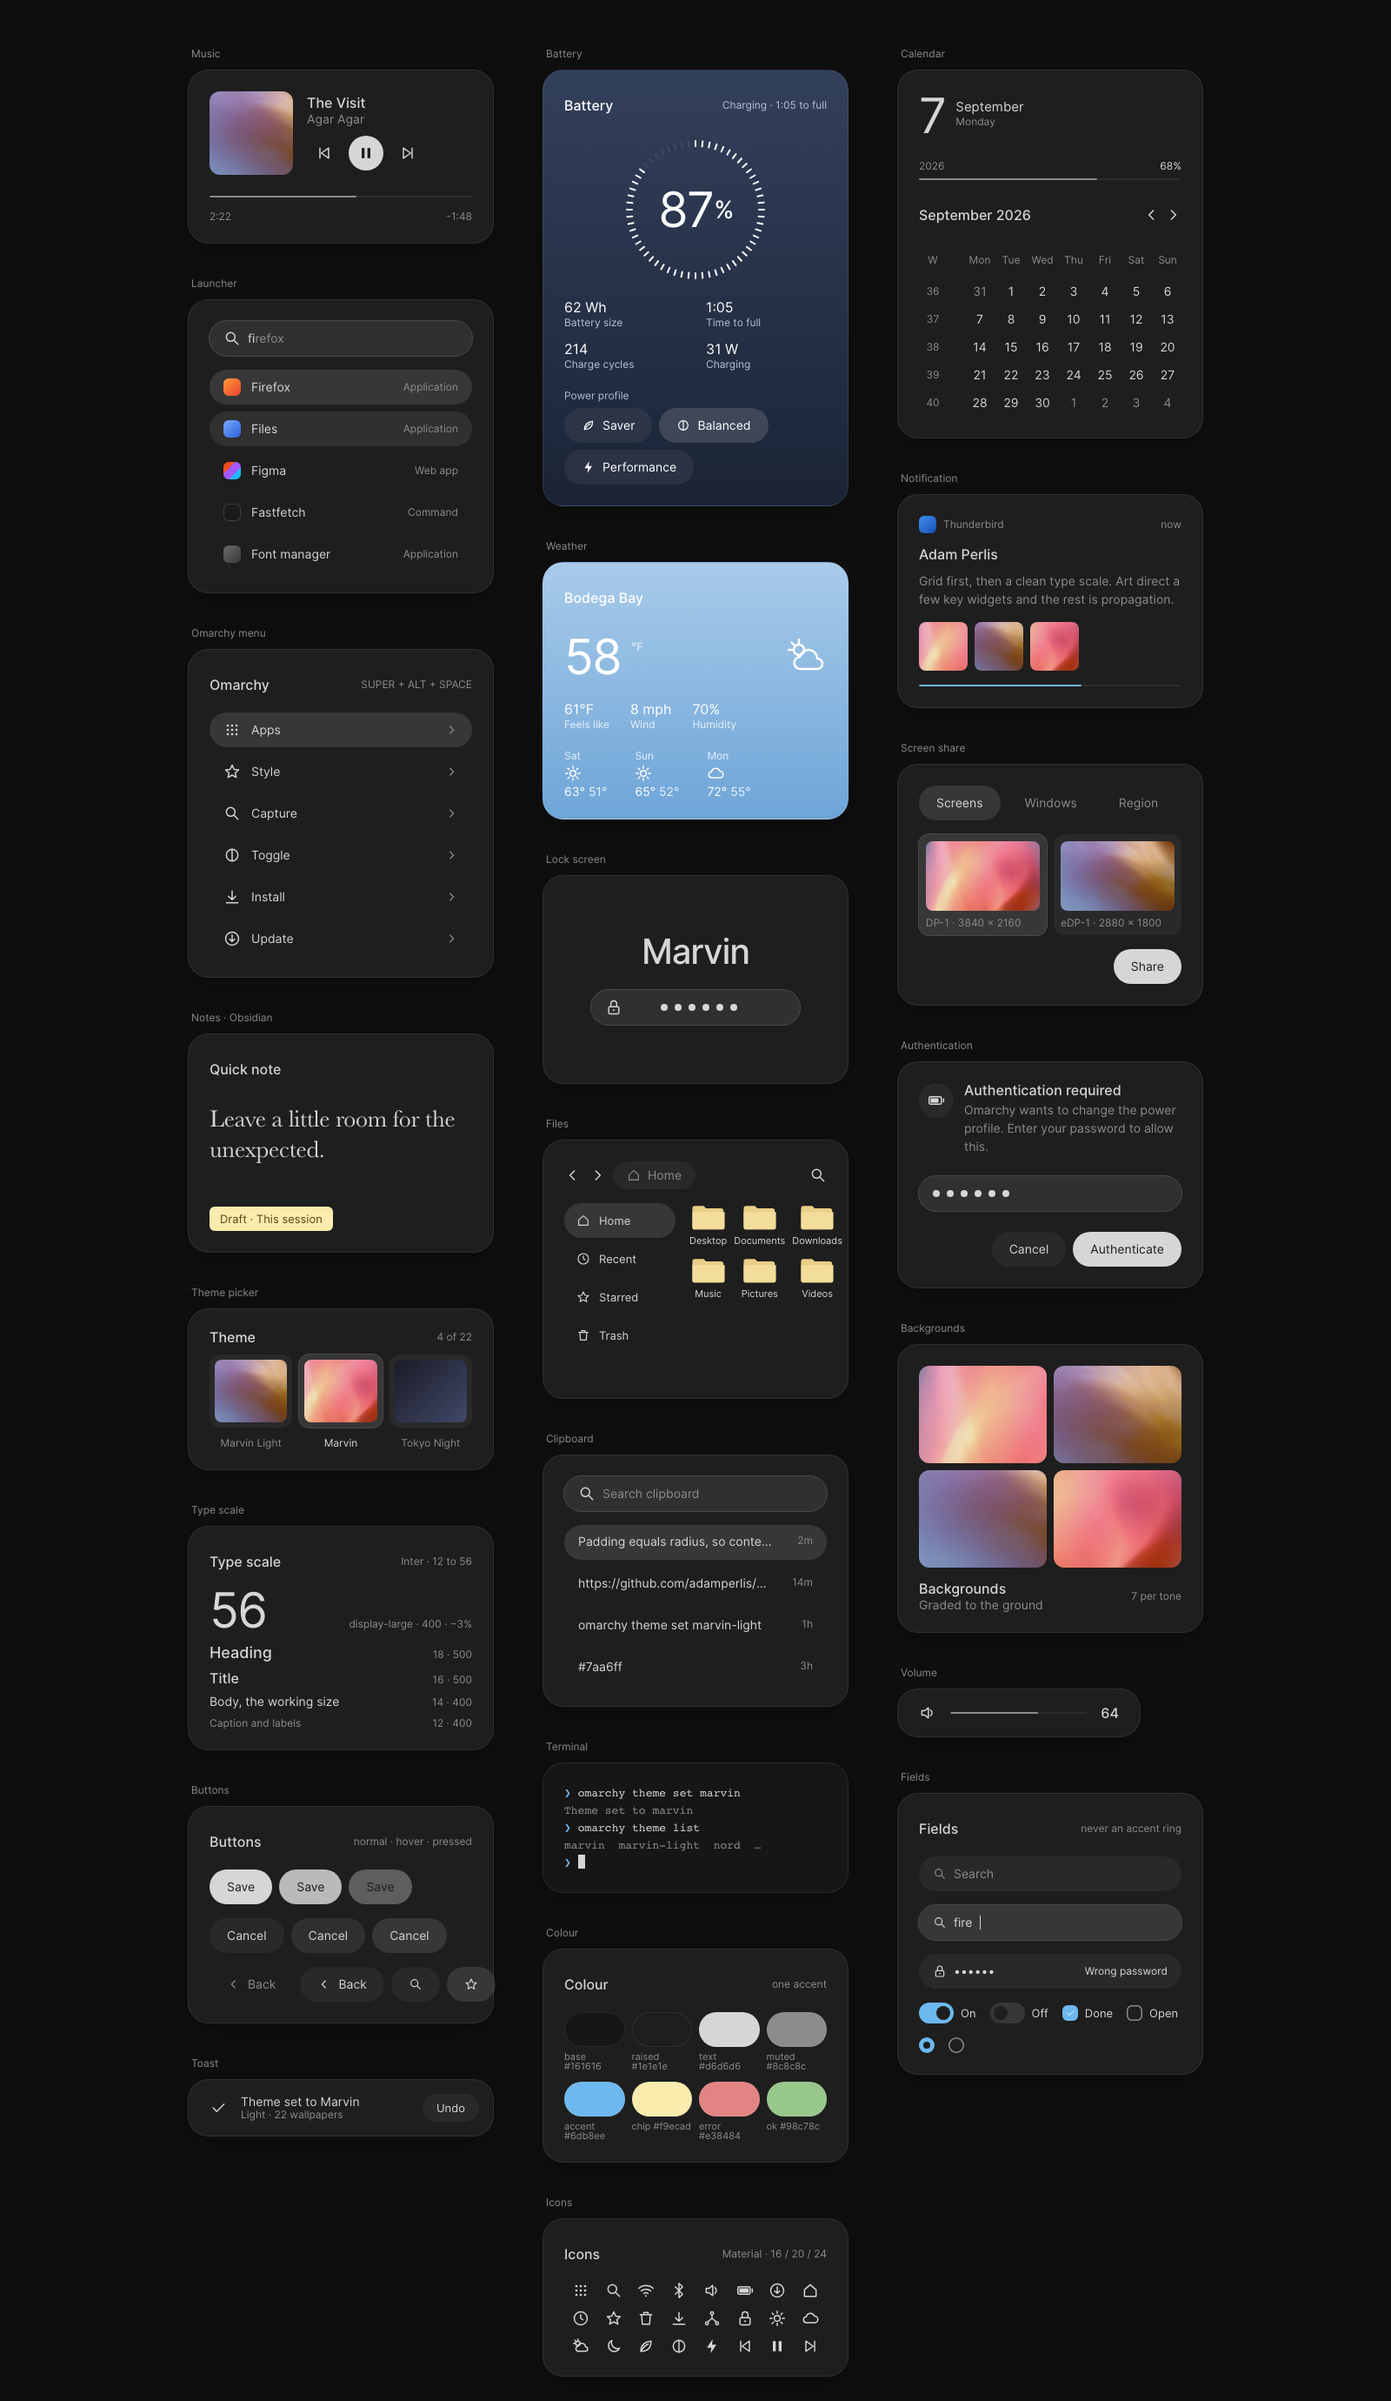
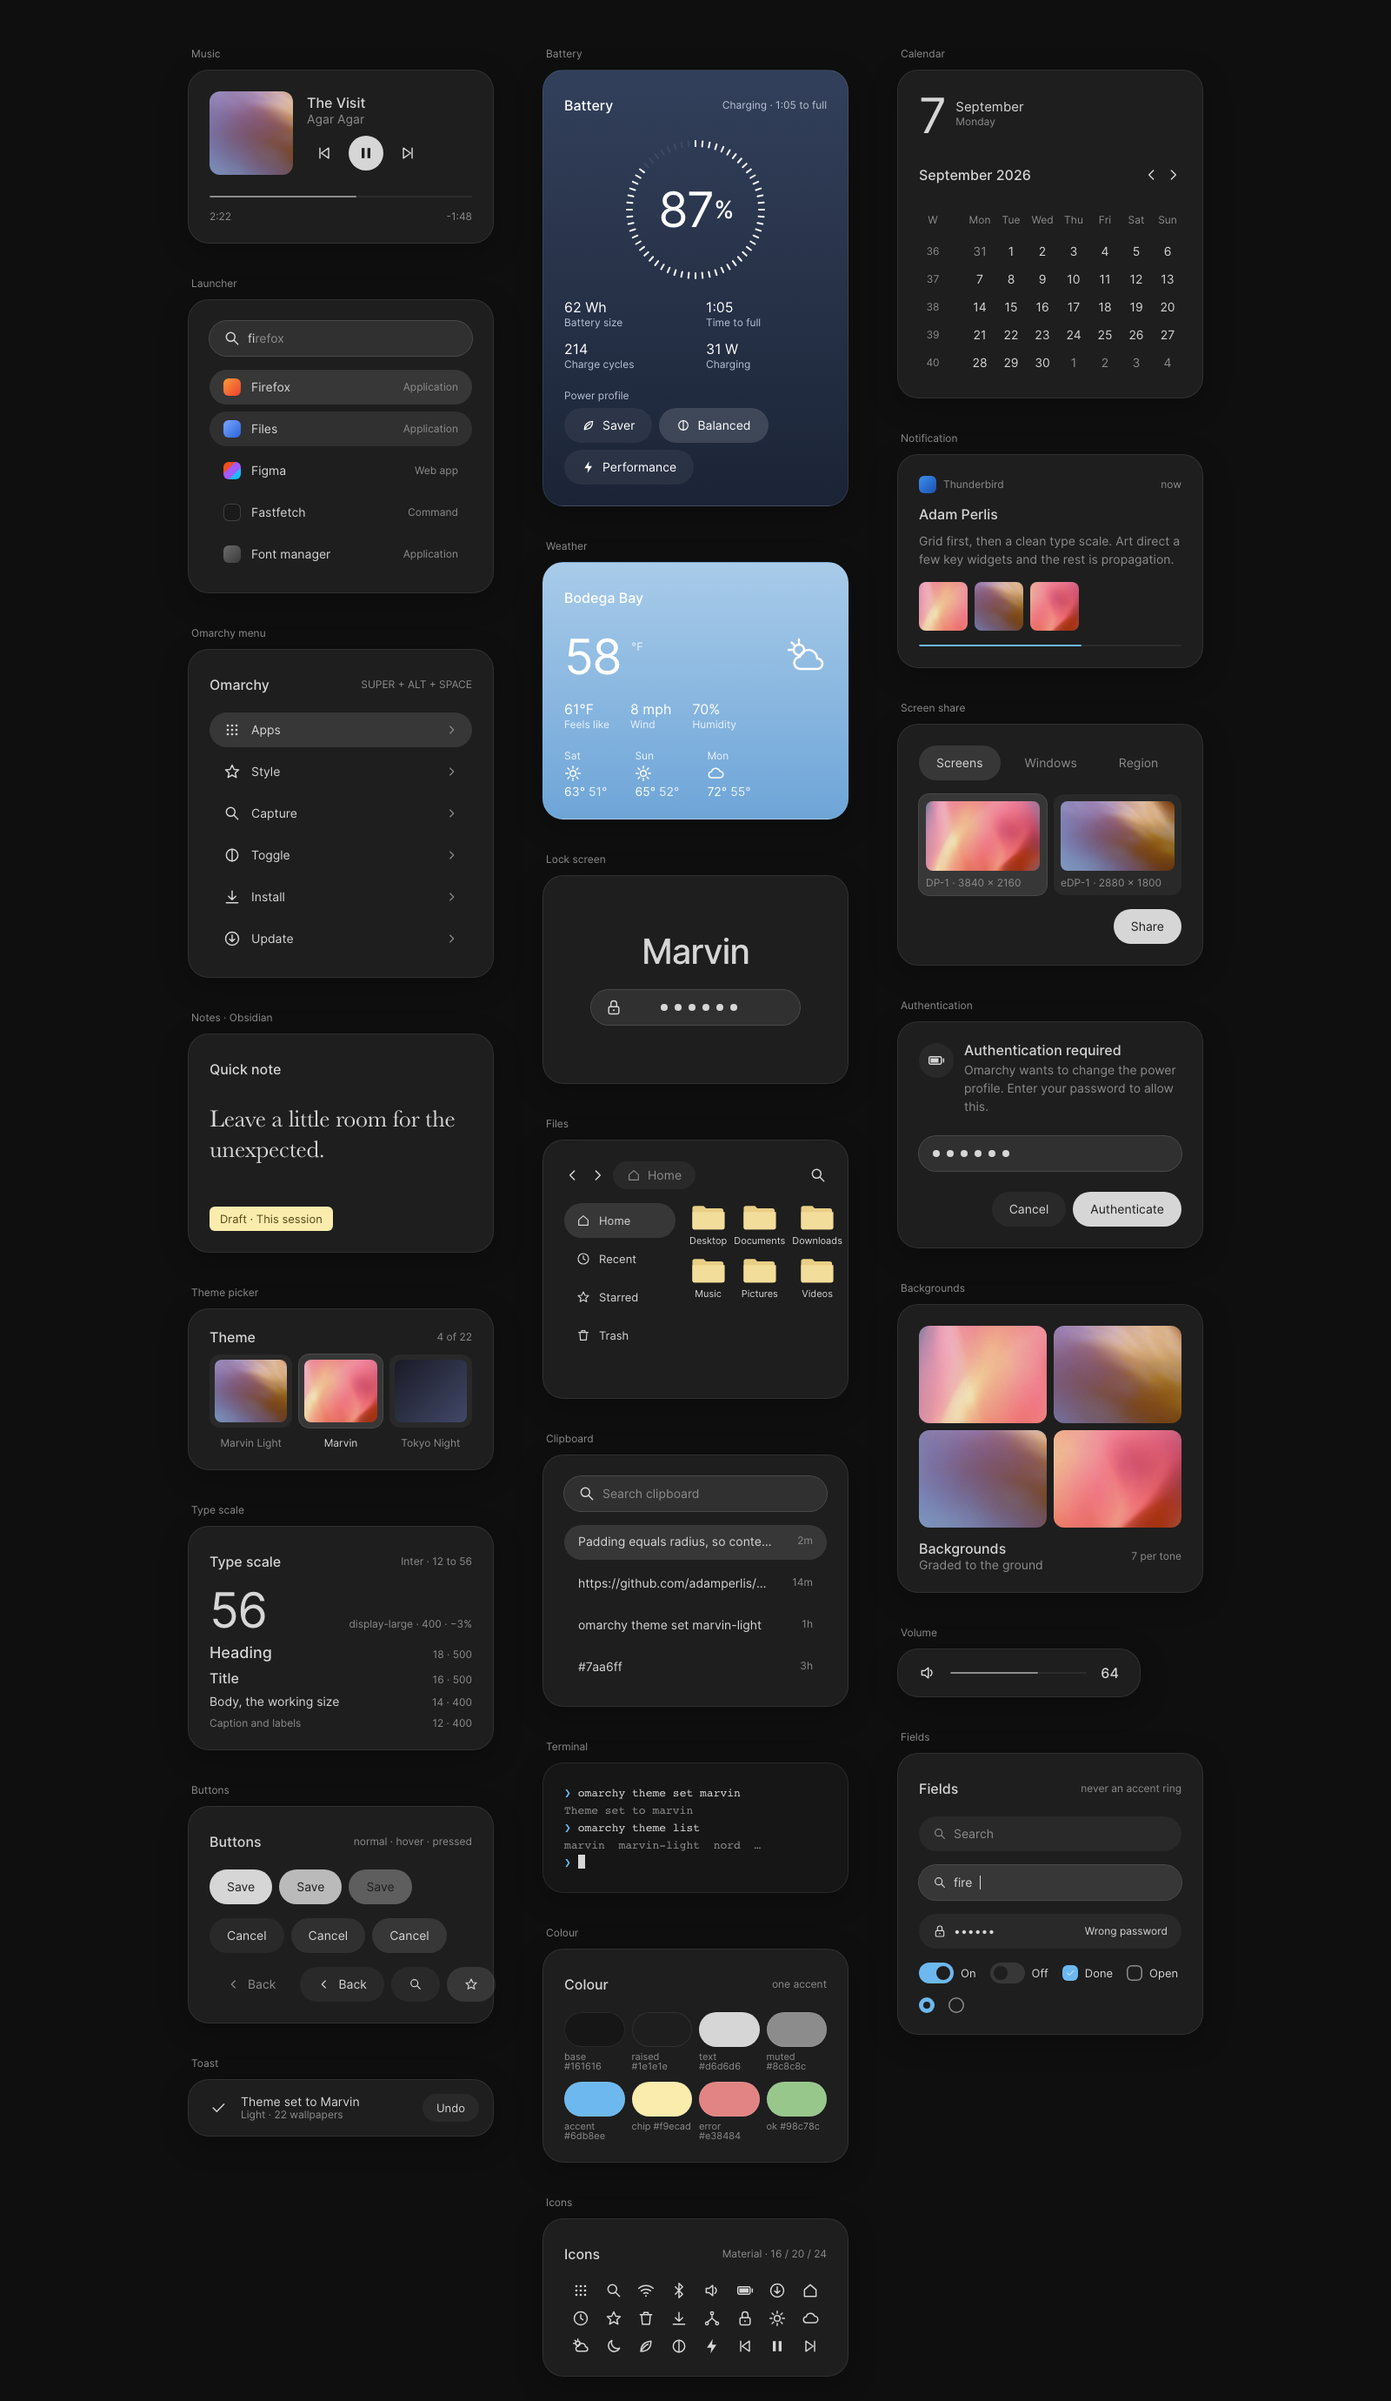
media empty state + sync the calendar mock to the fixed plugin
marvin.media now has a real empty state: the transport and an empty scrub bar
(0:00) stay on screen when nothing is playing, a muted "Drop a file or URL here
to play" hint appears, and a DropArea hands dropped files/URLs to xdg-open —
the default player picks them up and broadcasts back over MPRIS. The fallback
art tile is a neutral surface, not an accent block.

Preview mock: removed the "2026 · NN%" year bar from the calendar card so the
README example matches the fixed clock plugin.

diff --git a/plugins/marvin.media/BarWidget.qml b/plugins/marvin.media/BarWidget.qml
@@ -140,6 +140,18 @@ BarWidget {
     contentWidth: popup.fittedContentWidth(Style.space(304))
     contentHeight: popup.fittedContentHeight(column.implicitHeight)
 
+    // Drop a file or URL to play it: xdg-open hands it to the default player,
+    // which then broadcasts over MPRIS and appears here. DropArea only handles
+    // drags, so it never intercepts the transport's clicks.
+    DropArea {
+      anchors.fill: parent
+      onDropped: function(drop) {
+        var urls = drop.hasUrls ? drop.urls : (drop.hasText ? [drop.text] : [])
+        for (var i = 0; i < urls.length; i++) Quickshell.execDetached(["xdg-open", String(urls[i])])
+        drop.accept()
+      }
+    }
+
     Column {
       id: column
       anchors.fill: parent
@@ -265,9 +277,21 @@ BarWidget {
         }
       }
 
+      // ---- Empty state: nothing playing, so the card still shows the whole
+      //      shape — transport, an empty bar — and invites a file or URL.
+      Text {
+        visible: !root.hasMedia
+        width: parent.width
+        text: "Drop a file or URL here to play"
+        color: Color.muted
+        font.family: root.bar.fontFamily
+        font.pixelSize: Style.font.caption
+        wrapMode: Text.WordWrap
+      }
+
       // ---- Progress. A hairline; elapsed on the left, remaining on the right.
       Column {
-        visible: root.scrubVisible
+        visible: true
         width: parent.width
         spacing: Style.spacing.sm
 
@@ -291,14 +315,14 @@ BarWidget {
           height: Style.font.caption + Style.spacing.xxs
           Text {
             anchors.left: parent.left
-            text: root.scrubVisible ? root.clockText(root.activePlayer.position) : ""
+            text: root.scrubVisible ? root.clockText(root.activePlayer.position) : "0:00"
             color: Color.muted
             font.family: root.bar.fontFamily
             font.pixelSize: Style.font.caption
           }
           Text {
             anchors.right: parent.right
-            text: root.scrubVisible ? "-" + root.clockText(root.activePlayer.length - root.activePlayer.position) : ""
+            text: root.scrubVisible ? "-" + root.clockText(root.activePlayer.length - root.activePlayer.position) : "0:00"
             color: Color.muted
             font.family: root.bar.fontFamily
             font.pixelSize: Style.font.caption

diff --git a/tools/previews/build.py b/tools/previews/build.py
@@ -206,7 +206,6 @@ def widgets(t):
 <div class="stats three"><div><b>47°F</b><span>Feels like</span></div><div><b>3 mph</b><span>Wind</span></div><div><b>88%</b><span>Humidity</span></div></div>
 <div class="days"><div><span>Sat</span>{ic("sun",20)}<em>63°<i>51°</i></em></div><div><span>Sun</span>{ic("sun",20)}<em>65°<i>52°</i></em></div><div><span>Mon</span>{ic("cloud",20)}<em>72°<i>55°</i></em></div></div></div>''',
      "clock": f'''<div class="card" style="width:352px"><div class="hero"><b>7</b><div class="cap"><div>September</div><span>Monday</span></div></div>
-<div class="rail"><div class="lbl">2026<b>68%</b></div><div class="hair"><i style="width:68%"></i></div></div>
 <div class="mo">September 2026<div>{ic("chevron_left",20)}{ic("chevron_right",20)}</div></div><div class="grid">{g}</div></div>''',
      "power": f'''<div class="card pw" style="width:352px"><div class="hd">Battery<span class="chip">Charging · 1:05 to full</span></div>
 <div class="ring"><span style="position:absolute;left:79px;top:0;width:2px;height:8px;border-radius:1px;background:var(--pw-ink);transform-origin:1px 80px;transform:rotate(0deg)"></span><span style="position:absolute;left:79px;top:0;width:2px;height:8px;border-radius:1px;background:var(--pw-ink);transform-origin:1px 80px;transform:rotate(6deg)"></span><span style="position:absolute;left:79px;top:0;width:2px;height:8px;border-radius:1px;background:var(--pw-ink);transform-origin:1px 80px;transform:rotate(12deg)"></span><span style="position:absolute;left:79px;top:0;width:2px;height:8px;border-radius:1px;background:var(--pw-ink);transform-origin:1px 80px;transform:rotate(18deg)"></span><span style="position:absolute;left:79px;top:0;width:2px;height:8px;border-radius:1px;background:var(--pw-ink);transform-origin:1px 80px;transform:rotate(24deg)"></span><span style="position:absolute;left:79px;top:0;width:2px;height:8px;border-radius:1px;background:var(--pw-ink);transform-origin:1px 80px;transform:rotate(30deg)"></span><span style="position:absolute;left:79px;top:0;width:2px;height:8px;border-radius:1px;background:var(--pw-ink);transform-origin:1px 80px;transform:rotate(36deg)"></span><span style="position:absolute;left:79px;top:0;width:2px;height:8px;border-radius:1px;background:var(--pw-ink);transform-origin:1px 80px;transform:rotate(42deg)"></span><span style="position:absolute;left:79px;top:0;width:2px;height:8px;border-radius:1px;background:var(--pw-ink);transform-origin:1px 80px;transform:rotate(48deg)"></span><span style="position:absolute;left:79px;top:0;width:2px;height:8px;border-radius:1px;background:var(--pw-ink);transform-origin:1px 80px;transform:rotate(54deg)"></span><span style="position:absolute;left:79px;top:0;width:2px;height:8px;border-radius:1px;background:var(--pw-ink);transform-origin:1px 80px;transform:rotate(60deg)"></span><span style="position:absolute;left:79px;top:0;width:2px;height:8px;border-radius:1px;background:var(--pw-ink);transform-origin:1px 80px;transform:rotate(66deg)"></span><span style="position:absolute;left:79px;top:0;width:2px;height:8px;border-radius:1px;background:var(--pw-ink);transform-origin:1px 80px;transform:rotate(72deg)"></span><span style="position:absolute;left:79px;top:0;width:2px;height:8px;border-radius:1px;background:var(--pw-ink);transform-origin:1px 80px;transform:rotate(78deg)"></span><span style="position:absolute;left:79px;top:0;width:2px;height:8px;border-radius:1px;background:var(--pw-ink);transform-origin:1px 80px;transform:rotate(84deg)"></span><span style="position:absolute;left:79px;top:0;width:2px;height:8px;border-radius:1px;background:var(--pw-ink);transform-origin:1px 80px;transform:rotate(90deg)"></span><span style="position:absolute;left:79px;top:0;width:2px;height:8px;border-radius:1px;background:var(--pw-ink);transform-origin:1px 80px;transform:rotate(96deg)"></span><span style="position:absolute;left:79px;top:0;width:2px;height:8px;border-radius:1px;background:var(--pw-ink);transform-origin:1px 80px;transform:rotate(102deg)"></span><span style="position:absolute;left:79px;top:0;width:2px;height:8px;border-radius:1px;background:var(--pw-ink);transform-origin:1px 80px;transform:rotate(108deg)"></span><span style="position:absolute;left:79px;top:0;width:2px;height:8px;border-radius:1px;background:var(--pw-ink);transform-origin:1px 80px;transform:rotate(114deg)"></span><span style="position:absolute;left:79px;top:0;width:2px;height:8px;border-radius:1px;background:var(--pw-ink);transform-origin:1px 80px;transform:rotate(120deg)"></span><span style="position:absolute;left:79px;top:0;width:2px;height:8px;border-radius:1px;background:var(--pw-ink);transform-origin:1px 80px;transform:rotate(126deg)"></span><span style="position:absolute;left:79px;top:0;width:2px;height:8px;border-radius:1px;background:var(--pw-ink);transform-origin:1px 80px;transform:rotate(132deg)"></span><span style="position:absolute;left:79px;top:0;width:2px;height:8px;border-radius:1px;background:var(--pw-ink);transform-origin:1px 80px;transform:rotate(138deg)"></span><span style="position:absolute;left:79px;top:0;width:2px;height:8px;border-radius:1px;background:var(--pw-ink);transform-origin:1px 80px;transform:rotate(144deg)"></span><span style="position:absolute;left:79px;top:0;width:2px;height:8px;border-radius:1px;background:var(--pw-ink);transform-origin:1px 80px;transform:rotate(150deg)"></span><span style="position:absolute;left:79px;top:0;width:2px;height:8px;border-radius:1px;background:var(--pw-ink);transform-origin:1px 80px;transform:rotate(156deg)"></span><span style="position:absolute;left:79px;top:0;width:2px;height:8px;border-radius:1px;background:var(--pw-ink);transform-origin:1px 80px;transform:rotate(162deg)"></span><span style="position:absolute;left:79px;top:0;width:2px;height:8px;border-radius:1px;background:var(--pw-ink);transform-origin:1px 80px;transform:rotate(168deg)"></span><span style="position:absolute;left:79px;top:0;width:2px;height:8px;border-radius:1px;background:var(--pw-ink);transform-origin:1px 80px;transform:rotate(174deg)"></span><span style="position:absolute;left:79px;top:0;width:2px;height:8px;border-radius:1px;background:var(--pw-ink);transform-origin:1px 80px;transform:rotate(180deg)"></span><span style="position:absolute;left:79px;top:0;width:2px;height:8px;border-radius:1px;background:var(--pw-ink);transform-origin:1px 80px;transform:rotate(186deg)"></span><span style="position:absolute;left:79px;top:0;width:2px;height:8px;border-radius:1px;background:var(--pw-ink);transform-origin:1px 80px;transform:rotate(192deg)"></span><span style="position:absolute;left:79px;top:0;width:2px;height:8px;border-radius:1px;background:var(--pw-ink);transform-origin:1px 80px;transform:rotate(198deg)"></span><span style="position:absolute;left:79px;top:0;width:2px;height:8px;border-radius:1px;background:var(--pw-ink);transform-origin:1px 80px;transform:rotate(204deg)"></span><span style="position:absolute;left:79px;top:0;width:2px;height:8px;border-radius:1px;background:var(--pw-ink);transform-origin:1px 80px;transform:rotate(210deg)"></span><span style="position:absolute;left:79px;top:0;width:2px;height:8px;border-radius:1px;background:var(--pw-ink);transform-origin:1px 80px;transform:rotate(216deg)"></span><span style="position:absolute;left:79px;top:0;width:2px;height:8px;border-radius:1px;background:var(--pw-ink);transform-origin:1px 80px;transform:rotate(222deg)"></span><span style="position:absolute;left:79px;top:0;width:2px;height:8px;border-radius:1px;background:var(--pw-ink);transform-origin:1px 80px;transform:rotate(228deg)"></span><span style="position:absolute;left:79px;top:0;width:2px;height:8px;border-radius:1px;background:var(--pw-ink);transform-origin:1px 80px;transform:rotate(234deg)"></span><span style="position:absolute;left:79px;top:0;width:2px;height:8px;border-radius:1px;background:var(--pw-ink);transform-origin:1px 80px;transform:rotate(240deg)"></span><span style="position:absolute;left:79px;top:0;width:2px;height:8px;border-radius:1px;background:var(--pw-ink);transform-origin:1px 80px;transform:rotate(246deg)"></span><span style="position:absolute;left:79px;top:0;width:2px;height:8px;border-radius:1px;background:var(--pw-ink);transform-origin:1px 80px;transform:rotate(252deg)"></span><span style="position:absolute;left:79px;top:0;width:2px;height:8px;border-radius:1px;background:var(--pw-ink);transform-origin:1px 80px;transform:rotate(258deg)"></span><span style="position:absolute;left:79px;top:0;width:2px;height:8px;border-radius:1px;background:var(--pw-ink);transform-origin:1px 80px;transform:rotate(264deg)"></span><span style="position:absolute;left:79px;top:0;width:2px;height:8px;border-radius:1px;background:var(--pw-ink);transform-origin:1px 80px;transform:rotate(270deg)"></span><span style="position:absolute;left:79px;top:0;width:2px;height:8px;border-radius:1px;background:var(--pw-ink);transform-origin:1px 80px;transform:rotate(276deg)"></span><span style="position:absolute;left:79px;top:0;width:2px;height:8px;border-radius:1px;background:var(--pw-ink);transform-origin:1px 80px;transform:rotate(282deg)"></span><span style="position:absolute;left:79px;top:0;width:2px;height:8px;border-radius:1px;background:var(--pw-ink);transform-origin:1px 80px;transform:rotate(288deg)"></span><span style="position:absolute;left:79px;top:0;width:2px;height:8px;border-radius:1px;background:var(--pw-ink);transform-origin:1px 80px;transform:rotate(294deg)"></span><span style="position:absolute;left:79px;top:0;width:2px;height:8px;border-radius:1px;background:var(--pw-ink);transform-origin:1px 80px;transform:rotate(300deg)"></span><span style="position:absolute;left:79px;top:0;width:2px;height:8px;border-radius:1px;background:var(--pw-ink);transform-origin:1px 80px;transform:rotate(306deg)"></span><span style="position:absolute;left:79px;top:0;width:2px;height:8px;border-radius:1px;background:rgba(var(--pw-rgb),.08);transform-origin:1px 80px;transform:rotate(312deg)"></span><span style="position:absolute;left:79px;top:0;width:2px;height:8px;border-radius:1px;background:rgba(var(--pw-rgb),.08);transform-origin:1px 80px;transform:rotate(318deg)"></span><span style="position:absolute;left:79px;top:0;width:2px;height:8px;border-radius:1px;background:rgba(var(--pw-rgb),.08);transform-origin:1px 80px;transform:rotate(324deg)"></span><span style="position:absolute;left:79px;top:0;width:2px;height:8px;border-radius:1px;background:rgba(var(--pw-rgb),.08);transform-origin:1px 80px;transform:rotate(330deg)"></span><span style="position:absolute;left:79px;top:0;width:2px;height:8px;border-radius:1px;background:rgba(var(--pw-rgb),.08);transform-origin:1px 80px;transform:rotate(336deg)"></span><span style="position:absolute;left:79px;top:0;width:2px;height:8px;border-radius:1px;background:rgba(var(--pw-rgb),.08);transform-origin:1px 80px;transform:rotate(342deg)"></span><span style="position:absolute;left:79px;top:0;width:2px;height:8px;border-radius:1px;background:rgba(var(--pw-rgb),.08);transform-origin:1px 80px;transform:rotate(348deg)"></span><span style="position:absolute;left:79px;top:0;width:2px;height:8px;border-radius:1px;background:rgba(var(--pw-rgb),.08);transform-origin:1px 80px;transform:rotate(354deg)"></span><b>87<span style="font-size:.5em;font-weight:500;margin-left:1px">%</span></b></div>
